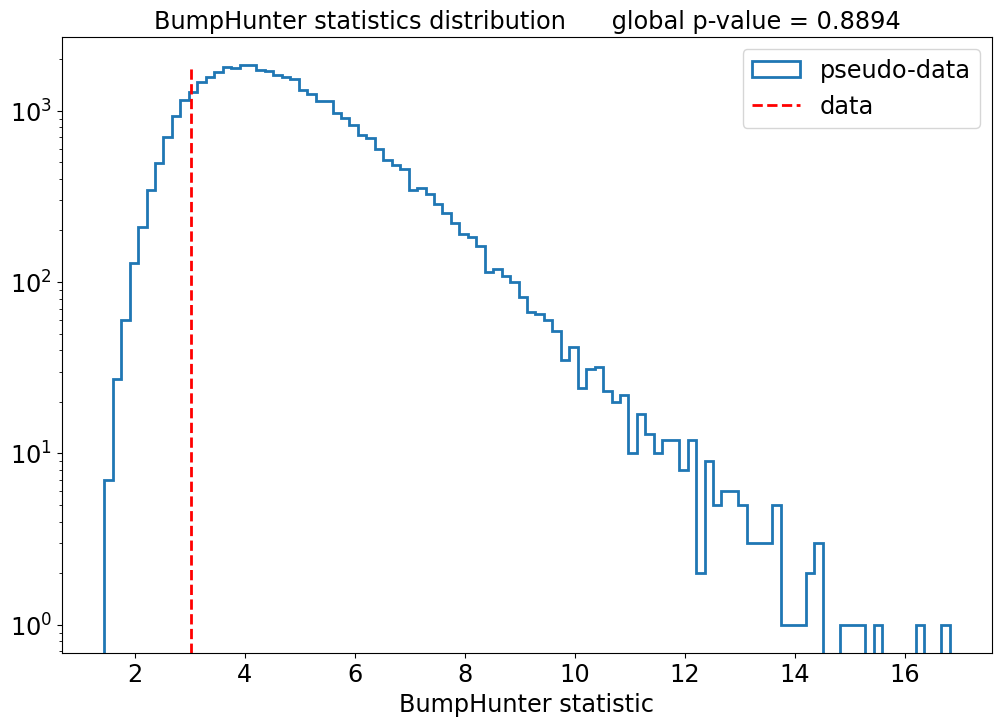
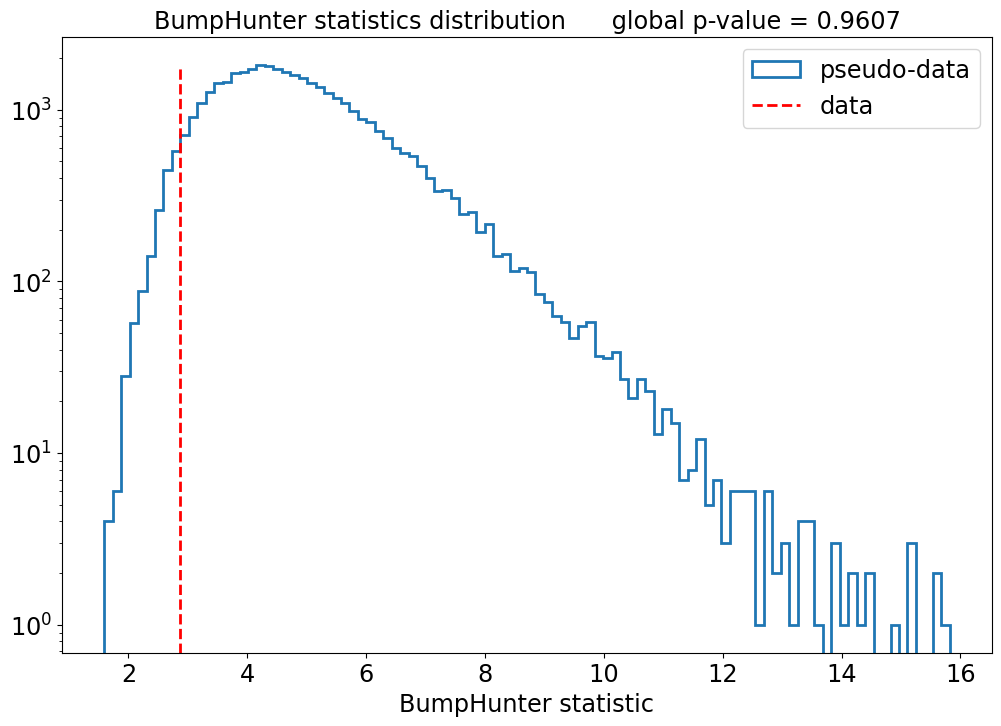
Applying BumpHunter with sig1 insertion and percentage 0.005

diff --git a/apply.py b/apply.py
@@ -138,8 +138,8 @@ print(f'    new S/B : {100 * sbr:.2f}%')
 
 BH = BumpHunter1D(
     rang=scope,
-    width_min = 2,
-    width_max = 6,
+    width_min = 1,
+    width_max = 5,
     width_step = 1,
     scan_step = 1,
     npe = 40000,
